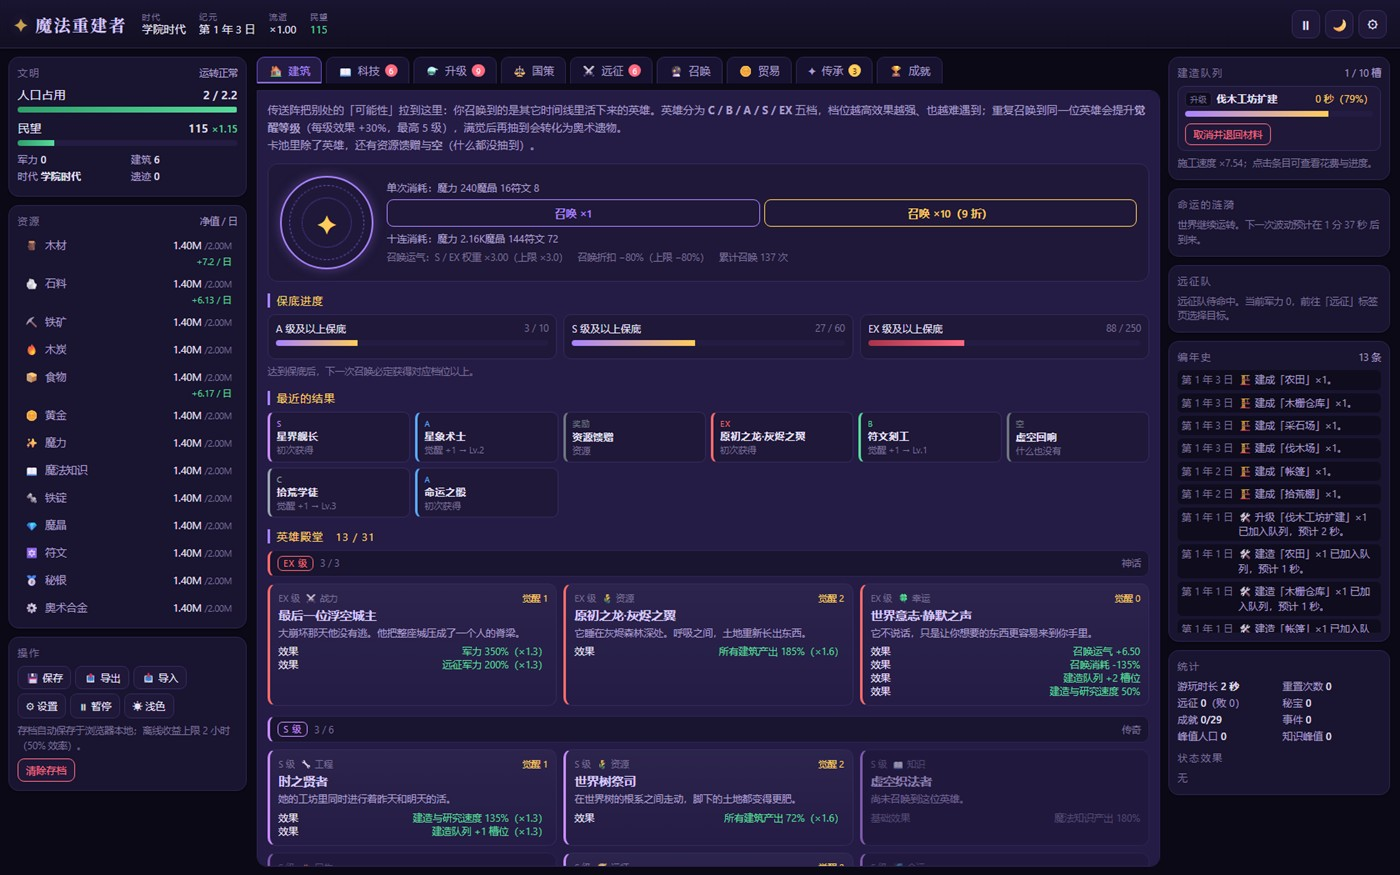
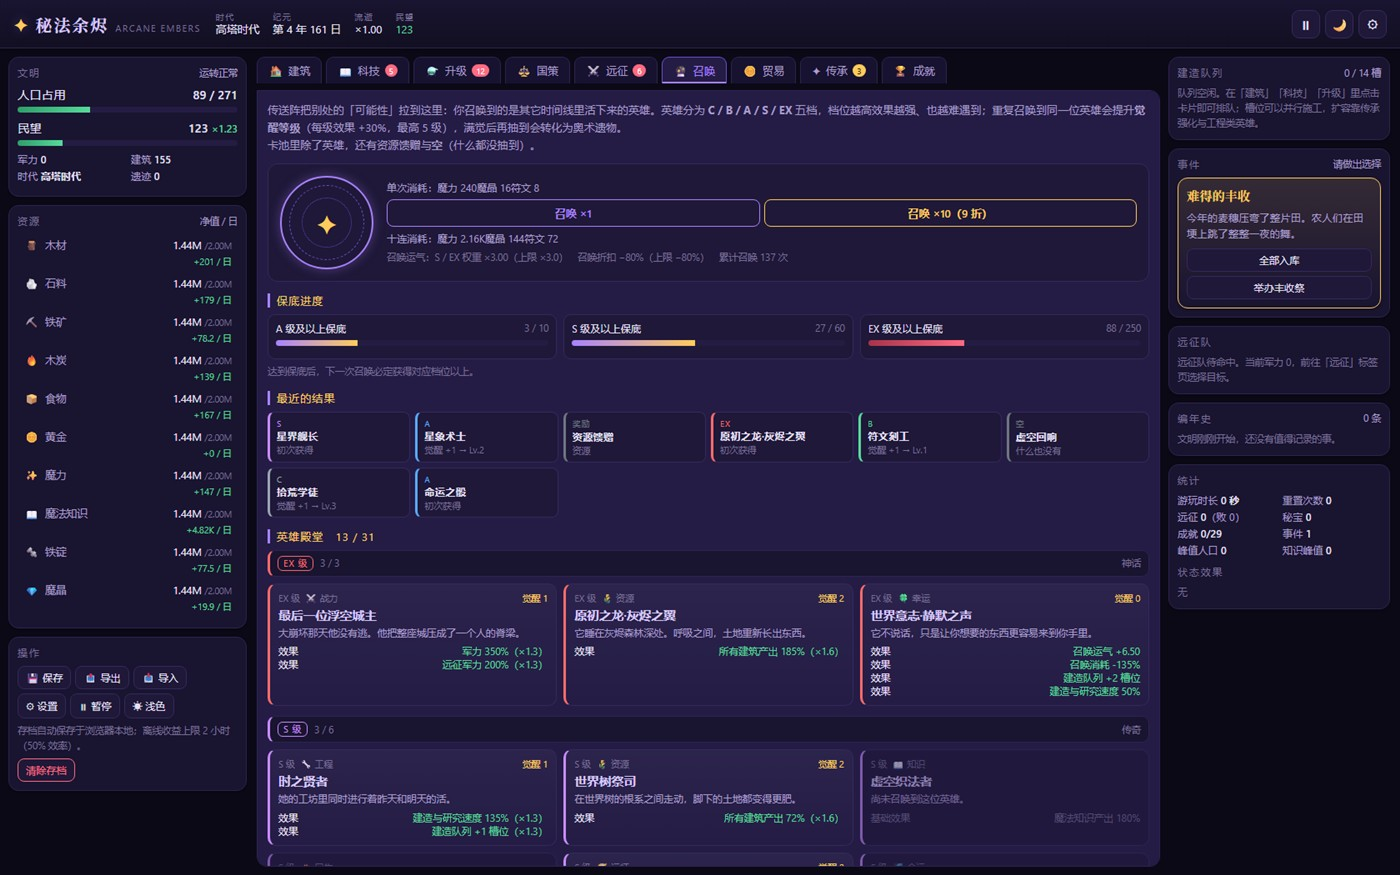
feat: 游戏更名为《秘法余烬》（Arcane Embers）
- 标题 / 品牌名 / meta 描述 / 欢迎弹窗 / 样式表注释全部改为「秘法余烬 · Arcane Embers」
- 存档键 magic-rebuilder-save → arcane-embers-save，读取时自动迁移旧存档并在成功后清理旧键（不会丢进度）
- 单文件版产物改名：dist/arcane-rebuilder.html → dist/arcane-embers.html
- README / CHANGELOG / 6 张截图全部按新名字更新（已重拍，含浅色主题与传送阵）
- 本地推送与打标签脚本文案同步更名
- 存档版本仍为 4，玩法与数值无改动

diff --git a/dist/arcane-embers.html b/dist/arcane-embers.html
@@ -4,11 +4,11 @@
 <head>
 <meta charset="UTF-8">
 <meta name="viewport" content="width=device-width, initial-scale=1.0, user-scalable=no">
-<title>魔法重建者 · Arcane Rebuilder</title>
-<meta name="description" content="中世纪魔法题材的放置建造游戏：从一座倒塌的法师塔开始，重建被大崩坏摧毁的魔法文明。">
+<title>秘法余烬 · Arcane Embers</title>
+<meta name="description" content="秘法余烬（Arcane Embers）：中世纪魔法题材的放置建造游戏，从一座倒塌的法师塔开始，重建被大崩坏摧毁的魔法文明。">
 <style>
 /* =========================================================
-   魔法重建者 · 样式表
+   秘法余烬（Arcane Embers）· 样式表
    深色「秘法」主题为默认，浅色「羊皮卷」主题可切换
    ========================================================= */
 
@@ -624,8 +624,8 @@ input[type=range] { flex: 1 1 auto; accent-color: var(--accent); cursor: pointer
   <header class="topbar">
     <div class="brand">
       <span class="brand-rune">✦</span>
-      <h1>魔法重建者</h1>
-      <span class="brand-sub">Arcane Rebuilder</span>
+      <h1>秘法余烬</h1>
+      <span class="brand-sub">Arcane Embers</span>
     </div>
     <div class="topbar-stats">
       <div class="top-stat"><span class="top-label">时代</span><span id="stat-era">灰烬时代</span></div>
@@ -4787,7 +4787,23 @@ input[type=range] { flex: 1 1 auto; accent-color: var(--accent); cursor: pointer
 /* ===== js/engine/save.js ===== */
 /* 存档：本地存储、导入导出、离线收益 */
 (function () {
-    const SAVE_KEY = 'magic-rebuilder-save';
+    /* 存档键：改名后使用新键，但会读取旧键并自动迁移，避免老玩家丢档 */
+    const SAVE_KEY = 'arcane-embers-save';
+    const LEGACY_SAVE_KEYS = ['magic-rebuilder-save'];
+
+    function readRaw() {
+        try {
+            const cur = localStorage.getItem(SAVE_KEY);
+            if (cur) return { raw: cur, key: SAVE_KEY };
+        } catch (e) { /* 忽略 */ }
+        for (const k of LEGACY_SAVE_KEYS) {
+            try {
+                const old = localStorage.getItem(k);
+                if (old) return { raw: old, key: k };
+            } catch (e) { /* 忽略 */ }
+        }
+        return null;
+    }
 
     function serialize(state) {
         const data = {};
@@ -4811,7 +4827,7 @@ input[type=range] { flex: 1 1 auto; accent-color: var(--accent); cursor: pointer
     }
 
     function hasSave() {
-        try { return !!localStorage.getItem(SAVE_KEY); } catch (e) { return false; }
+        return !!readRaw();
     }
 
     /* 把存档数据应用到全局状态（缺失字段用默认值补齐） */
@@ -4862,17 +4878,22 @@ input[type=range] { flex: 1 1 auto; accent-color: var(--accent); cursor: pointer
     }
 
     function load(state) {
-        let raw;
-        try { raw = localStorage.getItem(SAVE_KEY); } catch (e) { return false; }
-        if (!raw) return false;
+        const found = readRaw();
+        if (!found) return false;
         try {
-            const data = JSON.parse(raw);
+            const data = JSON.parse(found.raw);
             if (!data || typeof data !== 'object') return false;
             const seconds = data.lastTick ? Math.max(0, (Date.now() - data.lastTick) / 1000) : 0;
             applyData(state, data);
             state.pendingEvent = null;
             if (seconds > 60) applyOffline(state, seconds);
             state.lastTick = Date.now();
+            if (found.key !== SAVE_KEY) {
+                /* 从旧名字的存档迁移到新键 */
+                save(state);
+                try { localStorage.removeItem(found.key); } catch (e) { /* 忽略 */ }
+                EventEngine.addLog(state, '📜 存档已迁移到新版本（秘法余烬）。');
+            }
             return true;
         } catch (e) {
             console.error('读档失败', e);
@@ -4939,11 +4960,14 @@ input[type=range] { flex: 1 1 auto; accent-color: var(--accent); cursor: pointer
     }
 
     function hardReset() {
-        try { localStorage.removeItem(SAVE_KEY); } catch (e) {}
+        try {
+            localStorage.removeItem(SAVE_KEY);
+            for (const k of LEGACY_SAVE_KEYS) localStorage.removeItem(k);
+        } catch (e) {}
         location.reload();
     }
 
-    window.SaveEngine = { save, load, hasSave, exportSave, importSave, hardReset, applyOffline, applyData, SAVE_KEY };
+    window.SaveEngine = { save, load, hasSave, exportSave, importSave, hardReset, applyOffline, applyData, SAVE_KEY, LEGACY_SAVE_KEYS };
 })();
 
 </script>
@@ -7116,7 +7140,7 @@ input[type=range] { flex: 1 1 auto; accent-color: var(--accent); cursor: pointer
 
     /* ---------------- 欢迎 / 引导 ---------------- */
     function welcomeModal() {
-        const html = '<h2>魔法重建者</h2>' +
+        const html = '<h2>秘法余烬</h2>' +
             '<p>大崩坏那天，浮空城从天上落了下来，魔网断裂成无数碎片。你是最后一位仍然记得咒式的学徒，' +
             '面前只有一座倒塌的法师塔和一片灰烬。</p>' +
             '<h3>第一件事</h3><ul>' +

diff --git a/js/engine/save.js b/js/engine/save.js
@@ -1,6 +1,22 @@
 /* 存档：本地存储、导入导出、离线收益 */
 (function () {
-    const SAVE_KEY = 'magic-rebuilder-save';
+    /* 存档键：改名后使用新键，但会读取旧键并自动迁移，避免老玩家丢档 */
+    const SAVE_KEY = 'arcane-embers-save';
+    const LEGACY_SAVE_KEYS = ['magic-rebuilder-save'];
+
+    function readRaw() {
+        try {
+            const cur = localStorage.getItem(SAVE_KEY);
+            if (cur) return { raw: cur, key: SAVE_KEY };
+        } catch (e) { /* 忽略 */ }
+        for (const k of LEGACY_SAVE_KEYS) {
+            try {
+                const old = localStorage.getItem(k);
+                if (old) return { raw: old, key: k };
+            } catch (e) { /* 忽略 */ }
+        }
+        return null;
+    }
 
     function serialize(state) {
         const data = {};
@@ -24,7 +40,7 @@
     }
 
     function hasSave() {
-        try { return !!localStorage.getItem(SAVE_KEY); } catch (e) { return false; }
+        return !!readRaw();
     }
 
     /* 把存档数据应用到全局状态（缺失字段用默认值补齐） */
@@ -75,17 +91,22 @@
     }
 
     function load(state) {
-        let raw;
-        try { raw = localStorage.getItem(SAVE_KEY); } catch (e) { return false; }
-        if (!raw) return false;
+        const found = readRaw();
+        if (!found) return false;
         try {
-            const data = JSON.parse(raw);
+            const data = JSON.parse(found.raw);
             if (!data || typeof data !== 'object') return false;
             const seconds = data.lastTick ? Math.max(0, (Date.now() - data.lastTick) / 1000) : 0;
             applyData(state, data);
             state.pendingEvent = null;
             if (seconds > 60) applyOffline(state, seconds);
             state.lastTick = Date.now();
+            if (found.key !== SAVE_KEY) {
+                /* 从旧名字的存档迁移到新键 */
+                save(state);
+                try { localStorage.removeItem(found.key); } catch (e) { /* 忽略 */ }
+                EventEngine.addLog(state, '📜 存档已迁移到新版本（秘法余烬）。');
+            }
             return true;
         } catch (e) {
             console.error('读档失败', e);
@@ -152,9 +173,12 @@
     }
 
     function hardReset() {
-        try { localStorage.removeItem(SAVE_KEY); } catch (e) {}
+        try {
+            localStorage.removeItem(SAVE_KEY);
+            for (const k of LEGACY_SAVE_KEYS) localStorage.removeItem(k);
+        } catch (e) {}
         location.reload();
     }
 
-    window.SaveEngine = { save, load, hasSave, exportSave, importSave, hardReset, applyOffline, applyData, SAVE_KEY };
+    window.SaveEngine = { save, load, hasSave, exportSave, importSave, hardReset, applyOffline, applyData, SAVE_KEY, LEGACY_SAVE_KEYS };
 })();

diff --git a/index.html b/index.html
@@ -3,8 +3,8 @@
 <head>
 <meta charset="UTF-8">
 <meta name="viewport" content="width=device-width, initial-scale=1.0, user-scalable=no">
-<title>魔法重建者 · Arcane Rebuilder</title>
-<meta name="description" content="中世纪魔法题材的放置建造游戏：从一座倒塌的法师塔开始，重建被大崩坏摧毁的魔法文明。">
+<title>秘法余烬 · Arcane Embers</title>
+<meta name="description" content="秘法余烬（Arcane Embers）：中世纪魔法题材的放置建造游戏，从一座倒塌的法师塔开始，重建被大崩坏摧毁的魔法文明。">
 <link rel="stylesheet" href="css/style.css">
 </head>
 <body class="dark-theme">
@@ -13,8 +13,8 @@
   <header class="topbar">
     <div class="brand">
       <span class="brand-rune">✦</span>
-      <h1>魔法重建者</h1>
-      <span class="brand-sub">Arcane Rebuilder</span>
+      <h1>秘法余烬</h1>
+      <span class="brand-sub">Arcane Embers</span>
     </div>
     <div class="topbar-stats">
       <div class="top-stat"><span class="top-label">时代</span><span id="stat-era">灰烬时代</span></div>

diff --git a/tools/build-single-file.js b/tools/build-single-file.js
@@ -3,7 +3,7 @@
  * 单文件版打包脚本
  *
  * 用法：node tools/build-single-file.js
- * 输出：dist/arcane-rebuilder.html
+ * 输出：dist/arcane-embers.html
  *
  * 作用：把 index.html 里引用的 css/style.css 与全部 js/**\/*.js 内联进一个 HTML，
  *       生成可以直接双击运行、也方便分享的单文件版本。
@@ -13,7 +13,7 @@ const fs = require('fs');
 const path = require('path');
 
 const ROOT = path.resolve(__dirname, '..');
-const OUT = path.join(ROOT, 'dist', 'arcane-rebuilder.html');
+const OUT = path.join(ROOT, 'dist', 'arcane-embers.html');
 
 let html = fs.readFileSync(path.join(ROOT, 'index.html'), 'utf8');
 const inlined = [];

diff --git a/js/ui/app.js b/js/ui/app.js
@@ -378,7 +378,7 @@
 
     /* ---------------- 欢迎 / 引导 ---------------- */
     function welcomeModal() {
-        const html = '<h2>魔法重建者</h2>' +
+        const html = '<h2>秘法余烬</h2>' +
             '<p>大崩坏那天，浮空城从天上落了下来，魔网断裂成无数碎片。你是最后一位仍然记得咒式的学徒，' +
             '面前只有一座倒塌的法师塔和一片灰烬。</p>' +
             '<h3>第一件事</h3><ul>' +

diff --git a/css/style.css b/css/style.css
@@ -1,5 +1,5 @@
 /* =========================================================
-   魔法重建者 · 样式表
+   秘法余烬（Arcane Embers）· 样式表
    深色「秘法」主题为默认，浅色「羊皮卷」主题可切换
    ========================================================= */
 

diff --git a/README.md b/README.md
@@ -1,8 +1,11 @@
-# 魔法重建者 · Arcane Rebuilder
+# 秘法余烬 · Arcane Embers
 
 一个**中世纪魔法题材的单机放置（Idle / Incremental）建造游戏**，纯前端实现、零依赖、可离线运行。
 玩法结构参考了同类网页放置游戏（人口约束 → 建筑效率 → 科技解锁 → 多层重置传承），
 但世界观、资源链、建筑、科技、事件与全部数值都是为本作重新设计的。
+
+> 旧名《魔法重建者 / Arcane Rebuilder》，自 v1.1.1 起更名为《**秘法余烬 / Arcane Embers**》，
+> 玩法、存档与代码结构都保持连续（旧存档会自动迁移）。
 
 ## 世界观
 
@@ -15,7 +18,7 @@
 * **在线试玩**：<https://mzgz-xcxd.github.io/arcane-rebuilder/>
   （由本仓库 `main` 分支根目录经 GitHub Pages 直接托管，纯静态页面、不需要任何构建步骤；更新 `main` 后会自动重新发布。）
 * **本地运行**：双击 `index.html`，或把整个目录拖进浏览器。全部脚本都是普通 `<script>`，`file://` 下可直接运行，不需要本地服务器。
-* **单文件版**（方便分享或离线保存）：执行 `node tools/build-single-file.js`，脚本会把样式与全部脚本内联，生成 `dist/arcane-rebuilder.html` 这一个独立文件。
+* **单文件版**（方便分享或离线保存）：执行 `node tools/build-single-file.js`，脚本会把样式与全部脚本内联，生成 `dist/arcane-embers.html` 这一个独立文件。
 
 存档保存在浏览器 `localStorage`，关闭页面后再次打开会结算离线收益；也可以在「设置」里导出 / 导入存档文本。
 
@@ -79,7 +82,7 @@
 ## 文件结构
 
 ```
-arcane-rebuilder/
+arcane-embers/
 ├── index.html                  入口（双击即玩）
 ├── README.md
 ├── CHANGELOG.md                更新日志（每次改动都写在这里）
@@ -117,7 +120,7 @@ arcane-rebuilder/
 ├── tools/
 │   └── build-single-file.js    单文件版打包脚本
 ├── dist/
-│   └── arcane-rebuilder.html   打包产物（单文件版，可直接双击运行）
+│   └── arcane-embers.html      打包产物（单文件版，可直接双击运行）
 └── screenshots/                README 使用的界面截图
 ```
 
@@ -159,7 +162,7 @@ node tools/build-single-file.js
 ```
 
 脚本读取 `index.html`，把 `css/style.css` 与全部 `js/**/*.js` 内联进一个 HTML，
-输出到 `dist/arcane-rebuilder.html`。只需要 Node，无需任何依赖；改了源码后重新执行一次即可。
+输出到 `dist/arcane-embers.html`。只需要 Node，无需任何依赖；改了源码后重新执行一次即可。
 
 ## 兼容性
 

diff --git a/CHANGELOG.md b/CHANGELOG.md
@@ -22,6 +22,15 @@
 
 * 暂无
 
+## [1.1.1] - 2026-10-08
+
+### 变更
+
+* **游戏更名为《秘法余烬 / Arcane Embers》**（旧名《魔法重建者 / Arcane Rebuilder》）。标题、品牌名、README、
+  单文件版文件名（`dist/arcane-embers.html`）与相关文案全部更新；玩法、数值与代码结构保持连续。
+* 存档键从 `magic-rebuilder-save` 迁移为 `arcane-embers-save`：首次打开会自动读取旧存档并迁移到新键，
+  之后删除旧键，**老玩家不会丢进度**；「清除存档」会同时清理新旧两个键。
+
 ## [1.1.0] - 2026-10-08
 
 本次更新加入两套新系统：**建造队列**与**传送阵（英雄召唤）**。
